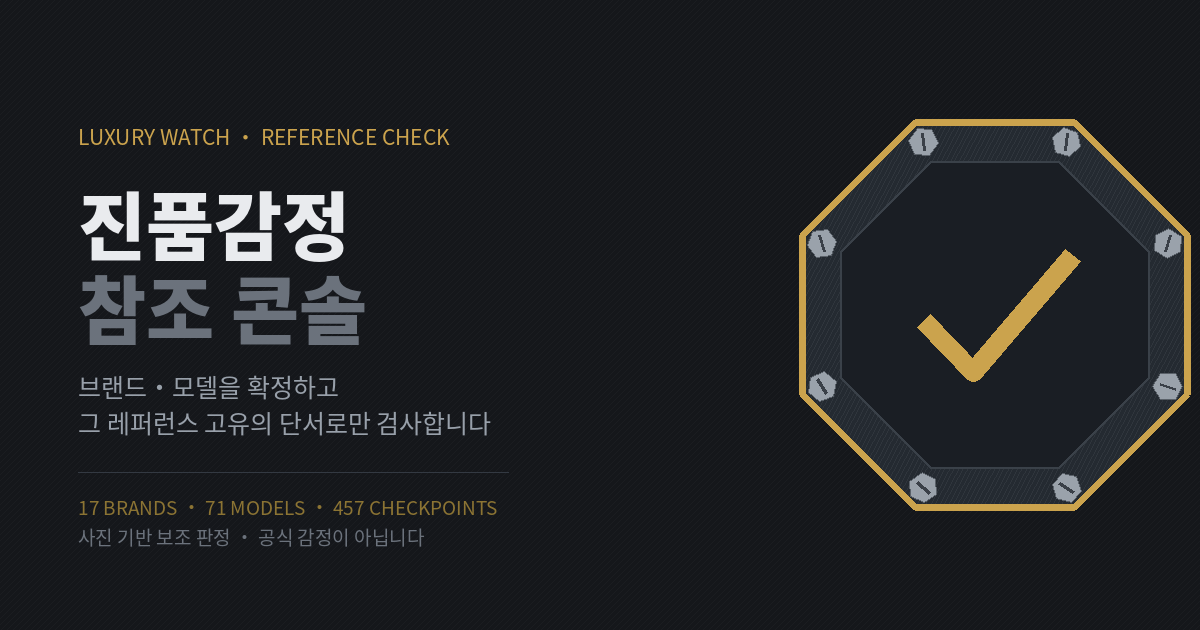
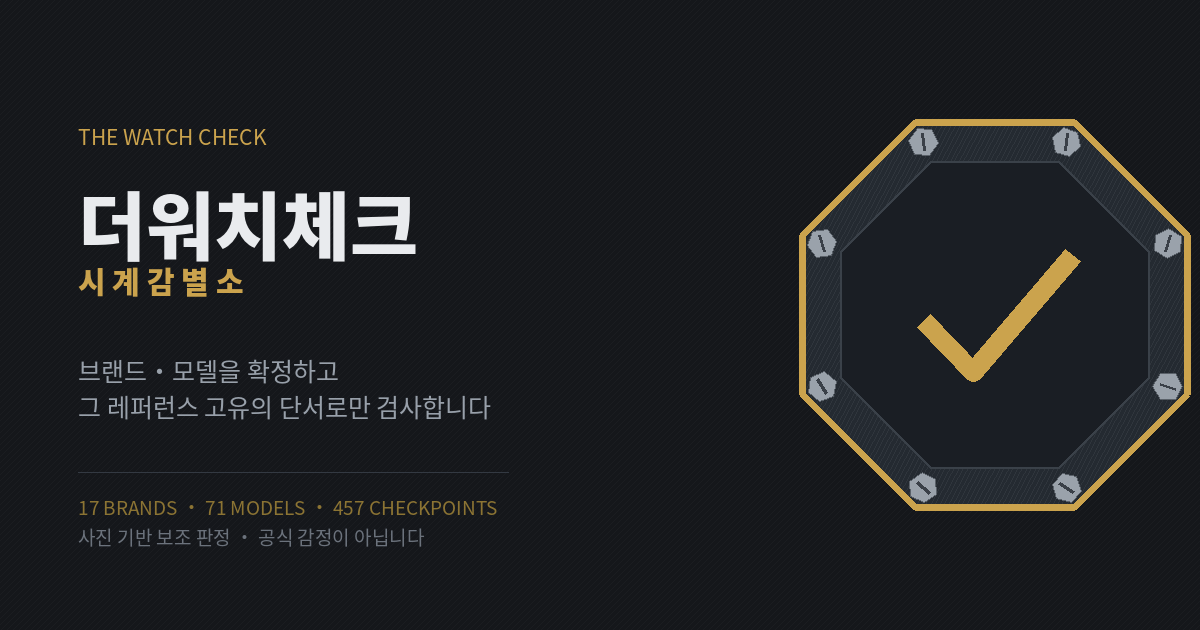
Add files via upload

Changed region(s): [[0.0617, 0.3016, 0.4008, 0.6937], [0.0617, 0.181, 0.37, 0.2413]]

diff --git a/index.html b/index.html
@@ -3,15 +3,15 @@
 <head>
 <meta charset="UTF-8" />
 <meta name="viewport" content="width=device-width, initial-scale=1.0" />
-<title>진품감정 참조 콘솔 · 17 Brands</title>
-<meta name="description" content="브랜드·모델을 확정하고 그 레퍼런스 고유의 단서로만 검사하는 사진 기반 진품감정 참조 도구. 17개 브랜드 71개 모델." />
+<title>더워치체크 The Watch Check · 시계감별소</title>
+<meta name="description" content="더워치체크 — AI 사진 감별 시계감별소. 브랜드·모델을 확정하고 그 레퍼런스 고유의 단서로만 검사합니다. 17개 브랜드 71개 모델. 참고용." />
 <link rel="icon" type="image/png" sizes="32x32" href="favicon-32.png" />
 <link rel="icon" type="image/png" sizes="192x192" href="icon-192.png" />
 <link rel="apple-touch-icon" href="apple-touch-icon.png" />
 <meta name="theme-color" content="#15171B" />
 <meta property="og:type" content="website" />
-<meta property="og:title" content="진품감정 참조 콘솔" />
-<meta property="og:description" content="17개 브랜드 71개 모델. 레퍼런스 고유 단서로만 검사하는 사진 기반 보조 판정 도구." />
+<meta property="og:title" content="더워치체크 · 시계감별소" />
+<meta property="og:description" content="AI 사진 감별 시계감별소. 17개 브랜드 71개 모델, 레퍼런스 고유 단서로만 검사합니다." />
 <meta property="og:image" content="https://jsh0529-beep.github.io/watch/cover.png" />
 <meta property="og:url" content="https://jsh0529-beep.github.io/watch/" />
 <meta name="twitter:card" content="summary_large_image" />
@@ -33,6 +33,7 @@
   .eyebrow{font-family:var(--mono);font-size:11px;letter-spacing:.32em;color:var(--gold);text-transform:uppercase;margin:0 0 10px}
   h1{font-family:var(--disp);font-weight:600;font-size:clamp(26px,4.4vw,40px);letter-spacing:-.01em;margin:0 0 6px;line-height:1.05}
   h1 .thin{color:var(--ink-3);font-weight:400}
+  .brand-sub{display:block;font-family:var(--disp);font-weight:500;font-size:14px;letter-spacing:.34em;color:var(--gold);margin-top:7px;text-transform:none}
   .sub{color:var(--ink-2);font-size:14px;max-width:64ch;margin:0}.sub b{color:var(--ink)}
   .warnstrip{margin-top:18px;border:1px solid var(--line);border-left:2px solid var(--gold);
     background:linear-gradient(90deg,rgba(203,163,77,0.06),transparent 60%);border-radius:var(--radius);padding:11px 14px}
@@ -245,8 +246,8 @@
 <body>
 <div class="wrap">
   <header>
-    <p class="eyebrow">Luxury Watch · Reference-Based Check · 17 Brands</p>
-    <h1>진품감정 <span class="thin">참조 콘솔</span></h1>
+    <p class="eyebrow">The Watch Check · 17 Brands · 71 Models</p>
+    <h1>더워치체크<span class="brand-sub">시계감별소</span></h1>
     <p class="sub">17개 브랜드 71개 모델. 브랜드·모델을 확정하면 <b>그 레퍼런스 고유의 tell 세트</b>로만 검사하고, 여러 레퍼런스의 디테일이 섞였는지(정합)도 함께 봅니다. 결정적 단서는 늘 모델 단위입니다.</p>
     <div class="warnstrip"><span><b>참조용 도구입니다.</b> 사진 기반 보조 판정일 뿐 공식 감정이 아닙니다. 1인당 하루 3회 이용할 수 있습니다. 확정은 브랜드 부티크·정식 서비스센터의 실물·루페 검사로 하세요.</span></div>
   </header>
@@ -1438,7 +1439,7 @@ function render(prof,p,skipped){
   const mEl=document.getElementById('manual');mEl.innerHTML='';
   prof.manual.forEach(([k,v])=>{const li=document.createElement('li');li.innerHTML=`<b>${k}</b> — ${v}`;mEl.appendChild(li);});
   document.getElementById('printMeta').textContent=
-    `진품감정 참조 콘솔 · ${DATA[brandKey].name} ${prof.label} · 생산시기 ${eraLab} · ${new Date().toLocaleDateString('ko-KR')} · 사진 기반 참조용, 공식 감정 아님`;
+    `더워치체크 시계감별소 · ${DATA[brandKey].name} ${prof.label} · 생산시기 ${eraLab} · ${new Date().toLocaleDateString('ko-KR')} · 사진 기반 참조용, 공식 감정 아님`;
   drawScrews();
   const results=document.getElementById('results');results.className='results show';results.scrollIntoView({behavior:'smooth',block:'start'});
 }
